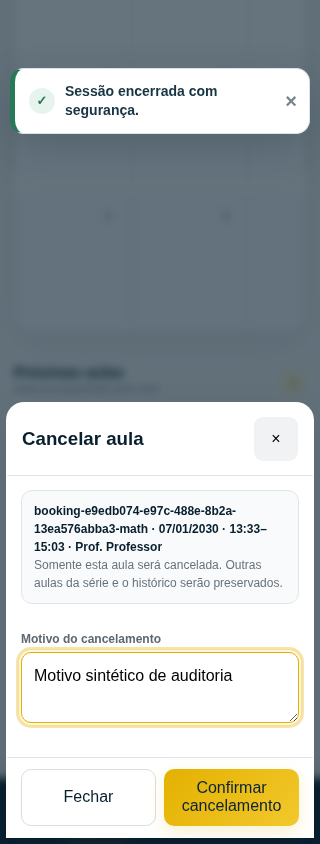
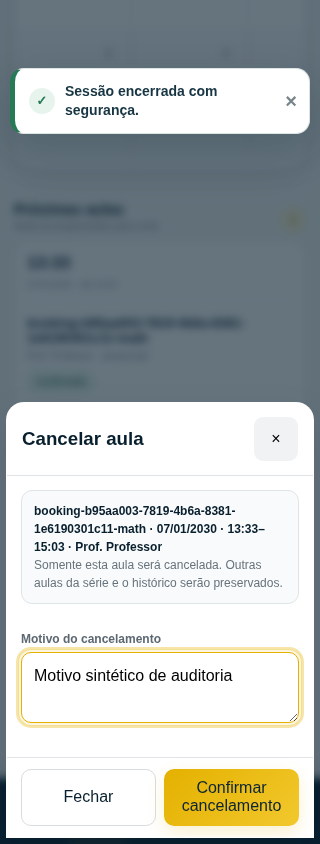
Corrigir rótulos ativos de revisão e consolidar evidências da auditoria

diff --git a/index.html b/index.html
@@ -5787,7 +5787,7 @@ function renderSecretaryStudentWorkspaceD(tab){const id=state.secretaryWorkspace
 const manageStudentSubjectsModalBeforeD=manageStudentSubjectsModal;
 manageStudentSubjectsModal=function(studentId){if(state.role!=="admin")return manageStudentSubjectsModalBeforeD(studentId);state.mathManageStudentId=studentId;const render=async()=>{modal("Pacote e matérias do aluno",loading("Carregando pacote..."));try{const r=await api(`/aluno-materias?alunoId=${encodeURIComponent(studentId)}`),items=r.items||[],limit=r.limiteMaterias||1,st=state.students.find(x=>x.uid===studentId)||state.users.find(x=>x.uid===studentId),available=state.subjects.filter(x=>x.active!==false&&!items.some(i=>i.disciplinaId===x.id));state.secretarySubjectLinksD=[...(state.secretarySubjectLinksD||[]).filter(x=>x.alunoId!==studentId),...items];if(st)st.limiteMaterias=limit;const rows=items.length?items.map(x=>{const teachers=state.users.filter(u=>u.role==="teacher"&&u.active!==false&&(u.disciplinaIds||[]).includes(x.disciplinaId));return `<div class="math-subject-link"><div><b>${esc(subjectLabel(x.disciplinaId))}</b><small>${esc(`${x.nivelLabel||"Nivelamento pendente"}`)}</small></div><select data-secretary-d-link-teacher="${esc(x.id)}"><option value="">Sem professor definido</option>${teachers.map(t=>`<option value="${esc(t.uid)}" ${x.professorId===t.uid?'selected':''}>${esc(t.fullName)}</option>`).join("")}</select><button class="small-btn danger-btn" data-secretary-d-remove-subject="${esc(x.id)}">Remover</button></div>`}).join(""):empty("Nenhuma matéria ativa");modal("Pacote e matérias do aluno",`<div class="math-package-box"><aside class="math-package-summary"><small>ALUNO</small><strong style="font-size:18px">${esc(st?.fullName||"Aluno")}</strong><small style="margin-top:3px">${esc(st?.forjaId||"")}</small><div style="margin-top:16px"><small>PACOTE ATUAL</small><strong>${items.length}/${limit}</strong><small>matéria(s) liberada(s)</small></div><div style="margin-top:12px"><label>Limite do pacote</label><select id="secretaryDSubjectLimit">${[1,2,3,4].map(n=>`<option value="${n}" ${n===limit?'selected':''}>${n} matéria${n>1?'s':''}</option>`).join("")}</select><button class="small-btn" data-secretary-d-save-limit style="margin-top:8px;width:100%">Salvar limite</button></div></aside><div><div class="math-subject-link-list">${rows}</div><div class="math-auto-box" style="margin-top:12px"><h3>Adicionar matéria</h3><p>A Secretaria define a matéria e o professor responsável.</p><div class="form-grid" style="margin-top:10px">${formField("Matéria",`<select id="secretaryDAddSubject"><option value="">Selecione</option>${available.map(x=>`<option value="${esc(x.id)}">${esc(x.nome||x.id)}</option>`).join("")}</select>`)}${formField("Professor",`<select id="secretaryDAddTeacher"><option value="">Selecione a matéria primeiro</option></select>`)}</div><button class="btn gold" data-secretary-d-add-subject>Adicionar ao pacote</button></div></div></div>`);$("#modal .modal")?.classList.add("secretary-d-student-modal");const refreshTeacher=()=>{const sid=$("#secretaryDAddSubject")?.value||"",teachers=state.users.filter(u=>u.role==="teacher"&&u.active!==false&&(u.disciplinaIds||[]).includes(sid)),sel=$("#secretaryDAddTeacher");if(sel)sel.innerHTML=`<option value="">${teachers.length?'Sem professor definido':'Nenhum professor habilitado'}</option>${teachers.map(t=>`<option value="${esc(t.uid)}">${esc(t.fullName)}</option>`).join("")}`};$("#secretaryDAddSubject")?.addEventListener("change",refreshTeacher);$$('[data-secretary-d-link-teacher]').forEach(sel=>sel.onchange=async()=>{try{await api(`/aluno-materias/${encodeURIComponent(sel.dataset.secretaryDLinkTeacher)}`,{method:"PATCH",body:{professorId:sel.value}});toast("Professor atualizado.","ok");await loadSecretaryPackagesD();if(["inicio","alunos","pendencias","cadastros"].includes(state.page))renderPage()}catch(e){toast(e.message,"bad")}});$$('[data-secretary-d-remove-subject]').forEach(b=>b.onclick=async()=>{if(!confirm("Remover esta matéria do pacote do aluno?"))return;setBusy(b,true);try{await api(`/aluno-materias/${encodeURIComponent(b.dataset.secretaryDRemoveSubject)}`,{method:"PATCH",body:{status:"inativo"}});toast("Matéria removida.","ok");await loadSecretaryPackagesD();if(["inicio","alunos","pendencias","cadastros"].includes(state.page))renderPage();await render()}catch(e){toast(e.message,"bad")}finally{setBusy(b,false)}});$('[data-secretary-d-save-limit]')?.addEventListener('click',async e=>{const b=e.currentTarget,n=Number($("#secretaryDSubjectLimit")?.value||1);setBusy(b,true);try{await api(`/alunos/${encodeURIComponent(studentId)}/limite-materias`,{method:"PATCH",body:{limiteMaterias:n}});if(st)st.limiteMaterias=n;toast("Limite do pacote atualizado.","ok");if(["inicio","alunos","pendencias","cadastros"].includes(state.page))renderPage();await render()}catch(err){toast(err.message,"bad")}finally{setBusy(b,false)}});$('[data-secretary-d-add-subject]')?.addEventListener('click',async e=>{const b=e.currentTarget,sid=$("#secretaryDAddSubject")?.value||"",pid=$("#secretaryDAddTeacher")?.value||"";if(!sid){toast("Selecione a matéria.","warn");return}setBusy(b,true);try{await api("/aluno-materias",{method:"POST",body:{alunoId:studentId,disciplinaId:sid,professorId:pid}});toast("Matéria adicionada ao pacote.","ok");await loadSecretaryPackagesD();if(["inicio","alunos","pendencias","cadastros"].includes(state.page))renderPage();await render()}catch(err){toast(err.message,"bad")}finally{setBusy(b,false)}});refreshTeacher()}catch(e){modal("Pacote e matérias do aluno",empty("Não foi possível carregar",e.message||"Erro inesperado"))}};return render()};
 
-function secretaryPendenciesPageD(){const p=secretaryPendingSnapshot(),students=state.students||[],noPackage=students.filter(s=>secretaryStudentLinksD(s.uid).length===0),incomplete=students.filter(s=>{const l=secretaryStudentLinksD(s.uid).length,lim=Math.max(1,Number(s.limiteMaterias)||1);return l>0&&l<lim}),noMeet=state.users.filter(x=>x.role==="teacher"&&x.active!==false&&!safeHttpUrl(x.meetLinkFixo||"")),tabs=[["operacao",`Operação (${p.lessonReschedules.length+p.sessionReschedules.length+p.negativeResponses.length+p.participationPending.length+p.pendingRecords.length})`],["profissionais",`Profissionais (${p.professionalsNoSchedule.length+noMeet.length})`],["cadastros",`Cadastros (${p.pendingEnrollments.length+p.pendingLinks.length+noPackage.length+incomplete.length})`],["psicologia",`Psicologia (${p.therapyRequests.length})`]];let body="";if(state.secretaryPendingTabD==="profissionais")body=`<div class="secretary-d-pending-grid">${secretaryDPanel("Aguardando disponibilidade",p.professionalsNoSchedule.length?p.professionalsNoSchedule.map(x=>row(x.fullName||"Profissional",`${roleLabel(x.role)} · ${x.forjaId||"Registro pendente"}`,"Aguardando disponibilidade",`<button class="small-btn" data-user="${esc(x.uid)}">Gerenciar</button>`)).join(""):empty("Todos configuraram disponibilidade"))}${secretaryDPanel("Meet pendente",noMeet.length?noMeet.map(x=>row(x.fullName||"Professor",(x.disciplinaIds||[]).map(subjectLabel).join(", ")||x.forjaId||"Professor","Meet pendente",`<button class="small-btn" data-user="${esc(x.uid)}">Configurar</button>`)).join(""):empty("Todos os professores possuem Meet"))}</div>`;else if(state.secretaryPendingTabD==="cadastros")body=`<div class="secretary-d-pending-grid">${secretaryDPanel("Matrículas e vínculos",[...p.pendingEnrollments.map(x=>row(x.fullName||"Aluno",seriesName(x.serieId)||"Série não informada","Matrícula",`<button class="small-btn" data-enrollment="${esc(x.id)}">Analisar</button>`)),...p.pendingLinks.map(x=>row(x.studentForjaId||"Aluno",`Responsável ${x.parentForjaId||x.parentId}`,"Vínculo",`<button class="small-btn" data-link-request="${esc(x.id)}">Analisar</button>`))].join("")||empty("Nenhuma pendência de cadastro"))}${secretaryDPanel("Pacotes dos alunos",[...noPackage.map(x=>row(x.fullName||"Aluno",x.forjaId||"Registro FORJA","Sem matéria",`<button class="small-btn" data-secretary-d-package="${esc(x.uid)}">Configurar pacote</button>`)),...incomplete.map(x=>{const n=secretaryStudentLinksD(x.uid).length,lim=Math.max(1,Number(x.limiteMaterias)||1);return row(x.fullName||"Aluno",`${n}/${lim} matéria(s) liberada(s)`,`Pacote incompleto`,`<button class="small-btn" data-secretary-d-package="${esc(x.uid)}">Gerenciar</button>`)} )].join("")||empty("Todos os pacotes estão preenchidos"))}</div>`;else if(state.secretaryPendingTabD==="psicologia")body=secretaryDPanel("Solicitações psicológicas",p.therapyRequests.length?p.therapyRequests.map(x=>row(x.nomeAluno||"Aluno",`${therapyRequestStatusLabel(x.status)} · ${x.contatoNome||"Contato"}`,"Operacional",`<button class="small-btn" data-therapy-request="${esc(x.id)}">Gerenciar</button>`)).join(""):empty("Nenhuma solicitação psicológica pendente"),"Somente operação e agendamento");else body=`<div class="secretary-d-pending-grid">${secretaryDPanel("Remarcações",[...p.lessonReschedules.map(x=>row(x.nomeAluno||"Aluno",`${fmtDate(x.dataAula)} · ${lessonTitle(x)}`,"Solicitada",`<button class="small-btn" data-lesson="${esc(x.id)}">Resolver</button>`)),...p.sessionReschedules.map(x=>row(x.nomeAluno||"Aluno",`${fmtDate(x.dataSessao)} · ${x.horaSessao||"—"}`,"Solicitada",`<button class="small-btn" data-session="${esc(x.id)}">Resolver</button>`))].join("")||empty("Nenhuma remarcação"))}${secretaryDPanel("Confirmações e ausências",[...p.negativeResponses.map(x=>row(x.nomeAluno||"Aluno",`${lessonTitle(x)} · ${fmtDate(x.dataAula)} · ${x.motivoAusencia||"Sem justificativa"}`,"Não participará",`<button class="small-btn" data-lesson="${esc(x.id)}">Abrir</button>`)),...p.participationPending.slice(0,30).map(x=>row(x.nomeAluno||"Aluno",`${lessonTitle(x)} · ${fmtDate(x.dataAula)} · ${x.horaAula||"—"}`,"Aguardando resposta",`<button class="small-btn" data-lesson="${esc(x.id)}">Abrir</button>`))].join("")||empty("Nenhuma confirmação pendente"))}${secretaryDPanel("Registros pedagógicos",p.pendingRecords.length?p.pendingRecords.map(x=>row(x.nomeAluno||"Aluno",`${fmtDate(x.dataAula)} · ${subjectLabel(x.disciplinaId)} · ${x.nomeProfessor||"Professor"}`,"Pendente",`<button class="small-btn" data-lesson="${esc(x.id)}">Ver aula</button>`)).join(""):empty("Nenhum registro pedagógico pendente"))}</div>`;return pageHead("SECRETARIA","Pendências","Resolva a operação por categoria sem misturar cadastros, profissionais e atendimentos.")+`<div class="secretary-d-pending-tabs">${tabs.map(([id,label])=>`<button data-secretary-d-pending-tab="${id}" class="${state.secretaryPendingTabD===id?'active':''}">${esc(label)}</button>`).join("")}</div>${body}`}
+function secretaryPendenciesPageD(){const p=secretaryPendingSnapshot(),students=state.students||[],noPackage=students.filter(s=>secretaryStudentLinksD(s.uid).length===0),incomplete=students.filter(s=>{const l=secretaryStudentLinksD(s.uid).length,lim=Math.max(1,Number(s.limiteMaterias)||1);return l>0&&l<lim}),noMeet=state.users.filter(x=>x.role==="teacher"&&x.active!==false&&!safeHttpUrl(x.meetLinkFixo||"")),tabs=[["operacao",`Operação (${p.lessonReschedules.length+p.sessionReschedules.length+p.negativeResponses.length+p.participationPending.length+p.pendingRecords.length})`],["profissionais",`Profissionais (${p.professionalsNoSchedule.length+noMeet.length})`],["cadastros",`Cadastros (${p.pendingEnrollments.length+p.pendingLinks.length+noPackage.length+incomplete.length})`],["psicologia",`Psicologia (${p.therapyRequests.length})`]];let body="";if(state.secretaryPendingTabD==="profissionais")body=`<div class="secretary-d-pending-grid">${secretaryDPanel("Aguardando disponibilidade",p.professionalsNoSchedule.length?p.professionalsNoSchedule.map(x=>row(x.fullName||"Profissional",`${roleLabel(x.role)} · ${x.forjaId||"Registro pendente"}`,"Aguardando disponibilidade",`<button class="small-btn" data-user="${esc(x.uid)}">Gerenciar</button>`)).join(""):empty("Todos configuraram disponibilidade"))}${secretaryDPanel("Meet pendente",noMeet.length?noMeet.map(x=>row(x.fullName||"Professor",(x.disciplinaIds||[]).map(subjectLabel).join(", ")||x.forjaId||"Professor","Meet pendente",`<button class="small-btn" data-user="${esc(x.uid)}">Configurar</button>`)).join(""):empty("Todos os professores possuem Meet"))}</div>`;else if(state.secretaryPendingTabD==="cadastros")body=`<div class="secretary-d-pending-grid">${secretaryDPanel("Matrículas e vínculos",[...p.pendingEnrollments.map(x=>row(x.fullName||"Aluno",seriesName(x.serieId)||"Série não informada","Matrícula",`<button class="small-btn" data-enrollment="${esc(x.id)}">Analisar</button>`)),...p.pendingLinks.map(x=>row(x.studentForjaId||"Aluno",`Responsável ${x.parentForjaId||x.parentId}`,"Vínculo",`<button class="small-btn" data-link-request="${esc(x.id)}">Analisar</button>`))].join("")||empty("Nenhuma pendência de cadastro"))}${secretaryDPanel("Pacotes dos alunos",[...noPackage.map(x=>row(x.fullName||"Aluno",x.forjaId||"Registro FORJA","Sem matéria",`<button class="small-btn" data-secretary-d-package="${esc(x.uid)}">Configurar pacote</button>`)),...incomplete.map(x=>{const n=secretaryStudentLinksD(x.uid).length,lim=Math.max(1,Number(x.limiteMaterias)||1);return row(x.fullName||"Aluno",`${n}/${lim} matéria(s) liberada(s)`,`Pacote incompleto`,`<button class="small-btn" data-secretary-d-package="${esc(x.uid)}">Gerenciar</button>`)} )].join("")||empty("Todos os pacotes estão preenchidos"))}</div>`;else if(state.secretaryPendingTabD==="psicologia")body=secretaryDPanel("Solicitações psicológicas",p.therapyRequests.length?p.therapyRequests.map(x=>row(x.nomeAluno||"Aluno",`${therapyRequestStatusLabel(x.status)} · ${x.contatoNome||"Contato"}`,"Operacional",`<button class="small-btn" data-therapy-request="${esc(x.id)}">Gerenciar</button>`)).join(""):empty("Nenhuma solicitação psicológica pendente"),"Somente operação e agendamento");else body=`<div class="secretary-d-pending-grid">${secretaryDPanel("Remarcações",[...p.lessonReschedules.map(x=>row(x.nomeAluno||"Aluno",`${fmtDate(x.dataAula)} · ${lessonTitle(x)}`,"Solicitada",`<button class="small-btn" data-lesson="${esc(x.id)}">Resolver</button>`)),...p.sessionReschedules.map(x=>row(x.nomeAluno||"Aluno",`${fmtDate(x.dataSessao)} · ${x.horaSessao||"—"}`,"Solicitada",`<button class="small-btn" data-session="${esc(x.id)}">Resolver</button>`))].join("")||empty("Nenhuma remarcação"))}${secretaryDPanel("Revisão das aulas",[...p.negativeResponses.map(x=>row(x.nomeAluno||"Aluno",`${lessonTitle(x)} · ${fmtDate(x.dataAula)} · ${x.motivoAusencia||"Sem justificativa"}`,"Resposta antiga: conferir",`<button class="small-btn" data-lesson="${esc(x.id)}">Abrir</button>`)),...p.participationPending.slice(0,30).map(x=>row(x.nomeAluno||"Aluno",`${lessonTitle(x)} · ${fmtDate(x.dataAula)} · ${x.horaAula||"—"}`,"Realização a conferir",`<button class="small-btn" data-lesson="${esc(x.id)}">Abrir</button>`))].join("")||empty("Nenhuma revisão pendente"))}${secretaryDPanel("Registros pedagógicos",p.pendingRecords.length?p.pendingRecords.map(x=>row(x.nomeAluno||"Aluno",`${fmtDate(x.dataAula)} · ${subjectLabel(x.disciplinaId)} · ${x.nomeProfessor||"Professor"}`,"Pendente",`<button class="small-btn" data-lesson="${esc(x.id)}">Ver aula</button>`)).join(""):empty("Nenhum registro pedagógico pendente"))}</div>`;return pageHead("SECRETARIA","Pendências","Resolva a operação por categoria sem misturar cadastros, profissionais e atendimentos.")+`<div class="secretary-d-pending-tabs">${tabs.map(([id,label])=>`<button data-secretary-d-pending-tab="${id}" class="${state.secretaryPendingTabD===id?'active':''}">${esc(label)}</button>`).join("")}</div>${body}`}
 
 function secretaryAttendancesPageD(){const today=secretaryTodayData(),futureLessons=nextItems(state.lessons,"dataAula","horaAula"),futureSessions=nextItems(state.sessions,"dataSessao","horaSessao"),recentLessons=[...state.lessons].sort((a,b)=>`${b.dataAula||''} ${b.horaAula||''}`.localeCompare(`${a.dataAula||''} ${a.horaAula||''}`)).slice(0,24),recentSessions=[...state.sessions].sort((a,b)=>`${b.dataSessao||''} ${b.horaSessao||''}`.localeCompare(`${a.dataSessao||''} ${a.horaSessao||''}`)).slice(0,24),tabs=[["aulas",`Aulas (${futureLessons.length})`],["psicologia",`Psicologia (${futureSessions.length})`]];let body;if(state.secretaryAttendanceTabD==="psicologia")body=`<div class="secretary-d-two-col">${secretaryDPanel("Próximos atendimentos",futureSessions.length?sessionRows(futureSessions.slice(0,14)):empty("Nenhum atendimento futuro"),`${today.sessions.length} hoje`)}${secretaryDPanel("Solicitações em andamento",(state.therapyRequests||[]).filter(x=>!['realizado','nao_aprovado','cancelado'].includes(String(x.status||''))).length?(state.therapyRequests||[]).filter(x=>!['realizado','nao_aprovado','cancelado'].includes(String(x.status||''))).slice(0,12).map(r=>row(r.nomeAluno||"Aluno",therapyRequestStatusLabel(r.status),r.contatoNome||"Contato",`<button class="small-btn" data-therapy-request="${esc(r.id)}">Gerenciar</button>`)).join(""):empty("Nenhuma solicitação em andamento"),"Somente dados operacionais")}</div>${secretaryDPanel("Histórico operacional",recentSessions.length?sessionRows(recentSessions):empty("Nenhuma sessão registrada"),"Sem conteúdo clínico")}`;else body=`<div class="secretary-d-two-col">${secretaryDPanel("Próximas aulas",futureLessons.length?lessonRows(futureLessons.slice(0,14)):empty("Nenhuma aula futura"),`${today.lessons.length} hoje`)}${secretaryDPanel("Aulas de hoje",today.lessons.length?lessonRows(today.lessons):empty("Nenhuma aula hoje"),"Operação do dia")}</div>${secretaryDPanel("Histórico recente",recentLessons.length?lessonRows(recentLessons):empty("Nenhuma aula registrada"),"Status operacional já reconciliado")}`;return pageHead("SECRETARIA","Atendimentos","Aulas e psicologia operacional separados para leitura rápida.",`<div class="quick-row"><button class="btn gold" data-action="newLesson">+ Aula</button><button class="btn soft" data-action="newSession">+ Atendimento psicológico</button></div>`)+`<div class="secretary-d-attendance-tabs">${tabs.map(([id,label])=>`<button data-secretary-d-attendance-tab="${id}" class="${state.secretaryAttendanceTabD===id?'active':''}">${esc(label)}</button>`).join("")}</div>${body}<div class="privacy-card" style="margin-top:14px"><b>Privacidade da psicologia.</b><br>A Secretaria acompanha somente solicitação, contato, agenda e status operacional.</div>`}
 

diff --git a/docs/AUDITORIA_GERAL_FORJA_2026-10.md b/docs/AUDITORIA_GERAL_FORJA_2026-10.md
@@ -184,7 +184,7 @@ retenção nem garantem expurgo de backups. Backups/exclusão reais não foram a
 
 Medições locais, sem comparação A/B de produção: validação53 ocorrências362ms,
 criação atômica1.324ms. Render sintético da Agenda com10/200/500 registros medido
-em24/18,8/14,6ms numa execução; a ordem/aquecimento do navegador explica por que
+em35/18,5/17,1ms numa execução; a ordem/aquecimento do navegador explica por que
 esses números não demonstram escalabilidade nem melhoria. Não alterar consultas
 por suposição. O ensaio completo registra tempos e quantidade de chamadas.
 
@@ -224,6 +224,32 @@ Capturas/medidas sintéticas: `docs/evidence/`; contagem final e checks são reg
 no fechamento dos PRs. Contar testes-folha e grupos separadamente; não somar reruns.
 Não confundir preview sintético de convite com entrega real. Nesta rodada nenhum
 Firebase/Render Preview foi publicado; os PRs devem continuar em rascunho.
+
+## Contagem e fechamento dos testes
+
+| Conjunto | Testes-folha independentes | Grupos-pai (não somar como casos) | Total exibido pelo Node |
+|---|---:|---:|---:|
+| Backend unitário |243|1|244|
+| Backend HTTP/Auth/Firestore/Chromium pareado |210|18|228|
+| Frontend/pipeline/Chromium |266|0|266|
+| Total único |719|19|738|
+
+A base tinha680 testes-folha; foram acrescentados39 (6 unitários backend,
+26 de integração e7 frontend). Não somar repetições nem os19 grupos aos719 casos.
+Não há teste intencionalmente ignorado. Os casos afetados por falhas locais de hash,
+contrato e rótulo foram corrigidos/reexecutados; a decisão final exige também os
+checks completos no HEAD dos PRs, não apenas um rerun ou um SHA anterior.
+
+No fechamento local: unitários aprovados; suíte frontend+rerun dos49 casos afetados
+aprovados; integração completa complementada pelo rerun dos contratos e do portal.
+O assert antigo da resposta de desconexão foi atualizado para verificar todos os
+campos novos, mantendo verificações de revogação, usuário, aula e cache.
+A regressão com aula histórica identificou e corrigiu o rótulo na versão ATIVA da
+página de Pendências, além da definição antiga. CI pareada é obrigatória antes de merge.
+
+Links permanentes dos checks desta branch:
+- [Backend](https://github.com/gokuoficialbr123-gif/forja-backend/actions?query=branch%3Afix%2Faulas-confirmadas-auditoria-2026-10).
+- [Frontend](https://github.com/gokuoficialbr123-gif/forja-escola/actions?query=branch%3Afix%2Faulas-confirmadas-auditoria-2026-10).
 
 ## Checklist para uma publicação futura, não executada
 
